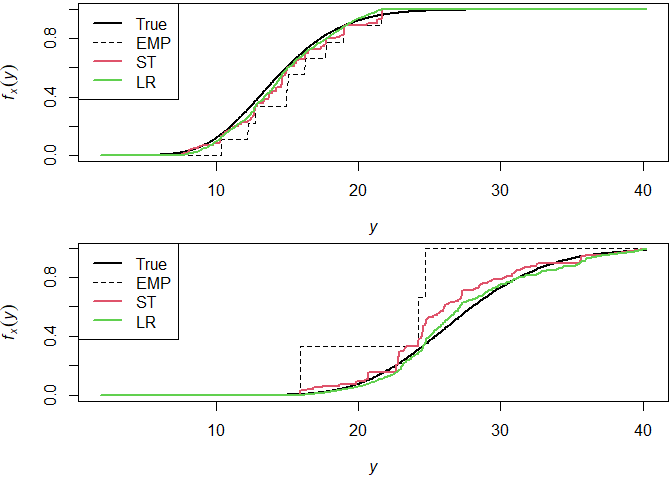
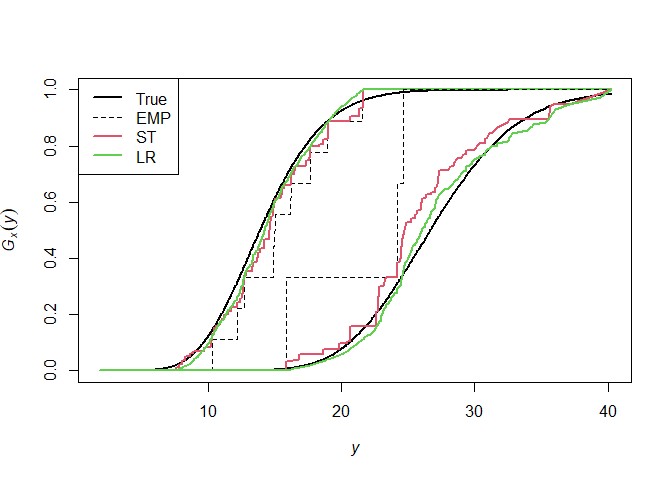
Updated description and 'README'

diff --git a/README.md b/README.md
@@ -6,7 +6,17 @@
 <!-- badges: start -->
 <!-- badges: end -->
 
-The goal of LRDistReg is to …
+Consider bivariate observations
+$(X_1, Y_1), \ldots , (X_n, Y_n) \in \mathbb{R}\times\mathbb{R}$ with
+unknown conditional distributions $Q_x$ of $Y$, given that $X = x$. The
+goal is to estimate these distributions under the sole assumption that
+$Q_x$ is isotonic in $x$ with respect to likelihood ratio order. The
+main algorithm of this package estimates the unknown family of
+distributions $(Q_x)_x$ via empirical likelihood, see [Moesching and
+Duembgen](https://arxiv.org/abs/2007.11521).
+
+Most functions are implemented both in R and C++ in order to have an
+easy to read implementation and a fast one.
 
 ## Installation
 
@@ -38,7 +48,7 @@ q.cond.dist <- function(x, alpha) qgamma(alpha, shape = a(x), scale = b(x))
 ```
 
 Visual output of the true family of distributions. For each $(x,y)$ in a
-certain rectangle, the value of $(\mathrm{d}P_x/\mathrm{d}y)(y)$ is
+certain rectangle, the value of $(\mathrm{d}Q_x/\mathrm{d}y)(y)$ is
 given by the color scale.
 
 ``` r
@@ -54,17 +64,7 @@ lattice::levelplot(outer(xx, yy, FUN = "d.cond.dist"),
 
 <img src="man/figures/README-visual_output-1.png" width="100%" />
 
-``` r
-
-contour(xx, yy, outer(xx, yy, FUN = "d.cond.dist"),
-        nlevels = 20,
-        xlab = expression(italic(x)), ylab = expression(italic(y)),
-        xlim = range(xx), ylim = range(yy))
-```
-
-<img src="man/figures/README-visual_output-2.png" width="100%" />
-
-## PART 2: Small data example, first (nonparametric) fit
+## PART 2: Small data example, first nonparametric fit
 
 Let us start with a small sample: $n = 30$ observations with covariates
 in a set $\mathfrak{X}_o := 1 + 3*\{1,2,...,\ell_o\}/\ell_o$, for
@@ -100,18 +100,6 @@ $(x,y)$ is equal to the number of observations at that location, plus 1.
 In consequence, black points contain no observations, red points contain
 one observation pair, green points contain two observation pairs, etc.
 
-If `indices = TRUE`, then the values $1,2,...,\ell$ are used for the
-plot instead of the unique elements $x_1 < x_2 < ... < x_\ell$ of
-$\{X_1,X_2,...,X_n\}$, and the values $1,2,...,m$ are used instead of
-the unique elements $y_1 < y_2 < ... < y_m$ of $\{Y_1,Y_2,...,Y_n\}$.
-This improves readability of the design plot.
-
-``` r
-plotD(res$par, indices = TRUE)
-```
-
-<img src="man/figures/README-fit_with_indices-1.png" width="100%" />
-
 The family of distributions is estimated at each points of this grid.
 The estimated conditional distribution functions are given by
 `res$CDF_LR`, an $\ell$-by-$m$ matrix.
@@ -133,7 +121,7 @@ colSums(res$h_TP2); res$par$w_plus.k/res$par$n
 
 ## PART 3: Medium data example, specification of precision parameter
 
-Options:
+The new setup is specified as follows:
 
 ``` r
 n <- 1e2
@@ -191,18 +179,16 @@ c(DIFF_LR, DIFF_ST, DIFF_EMP)
 #> [1] 0.02111121 0.02366766 0.05607067
 ```
 
-Plot the true CDF $F_x$ as well as its estimators for two values of $x$,
-one middle covariate ($x = 2.5$) and one boundary covariate ($x = 4$).
+Plot the true CDF as well as its estimators for two values of $x$, one
+middle covariate ($x = 2.5$) and one boundary covariate ($x = 4$).
 
 ``` r
-par(mfrow = c(2,1), mar = c(4.1,4.1,0.2,0.2))
-xx <- c(2.5, 4)
-for (xj in xx) {
+plot(0, type = "n",
+     xlab = expression(italic(y)), ylab = expression(italic(G[x](y))),
+     xlim = range(y), ylim = c(0,1), lwd = 2)
+for (xj in c(2.5, 4)) {
   j <- which(xj == x)
-  plot(y, CDF_TRUE[j,], type = "l",
-       xlab = expression(italic(y)),
-       ylab = expression(italic(f[x](y))),
-       lwd = 2)
+  lines(y, CDF_TRUE[j,],lwd = 2)
   lines(y, CDF_EMP[j,], lty = 2)
   lines(y, CDF_ST[j,], col = 2, lwd = 2)
   lines(y, CDF_LR[j,], col = 3, lwd = 2)
